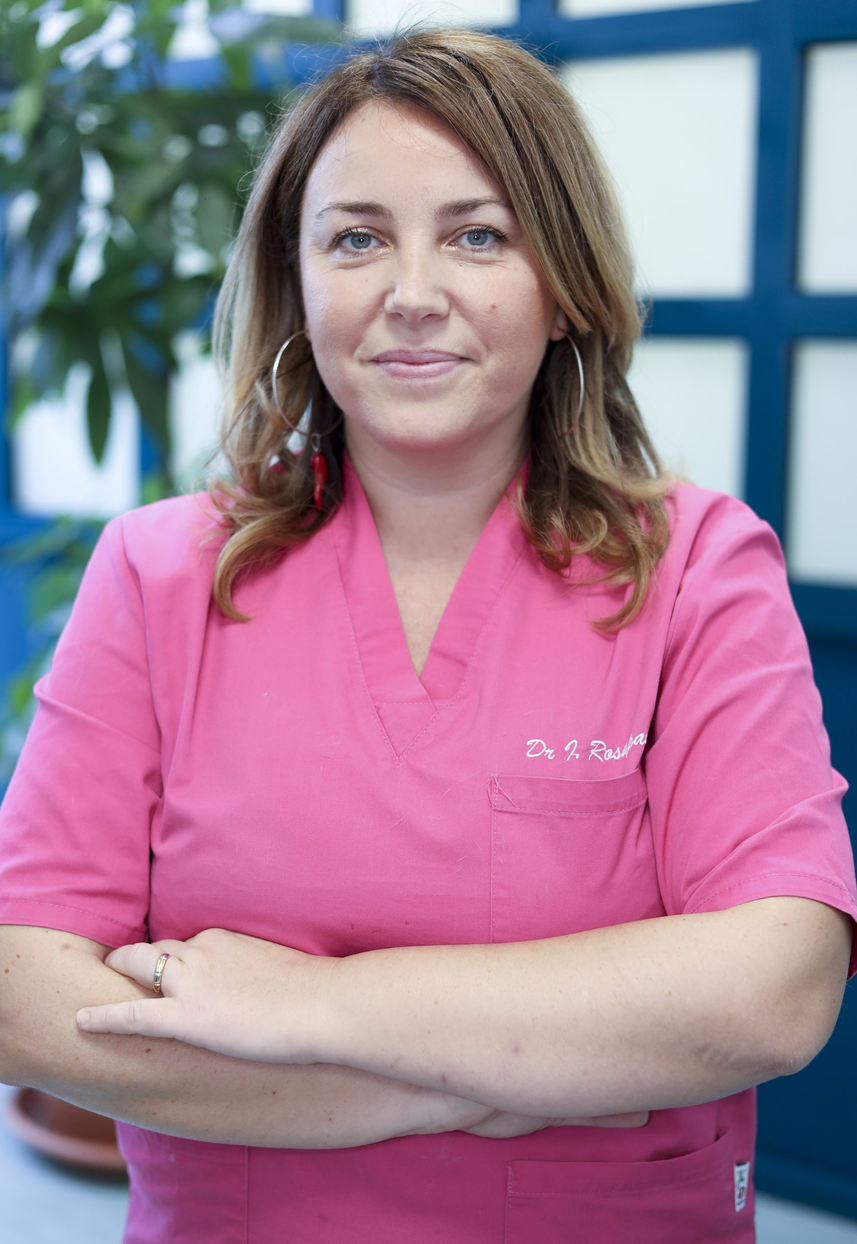
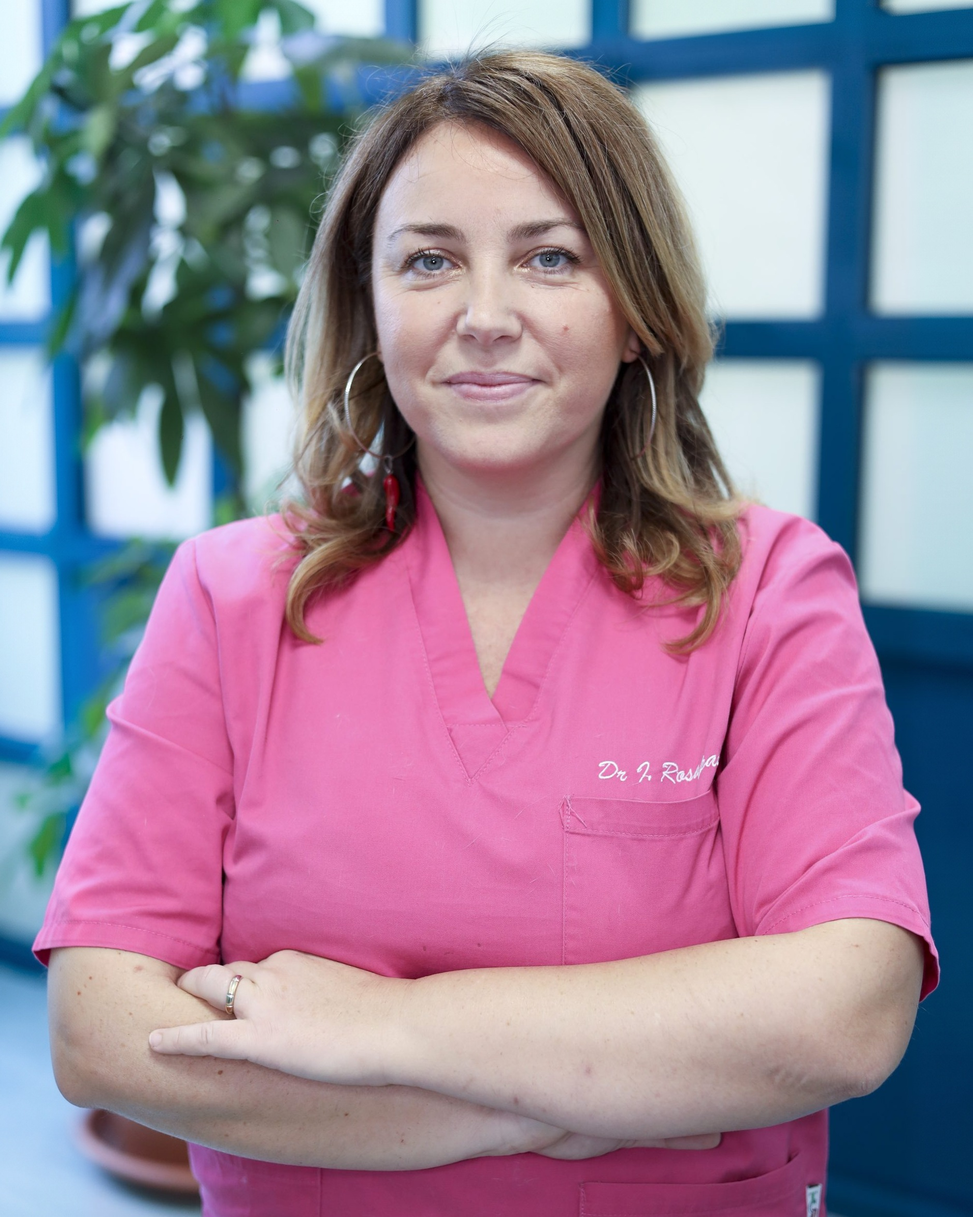
Home con il team, soci in proporzione, pagine struttura/contatti/urgenze riviste
- Testata della home: foto del team intera (in alto su mobile, a destra su desktop).
- Ritratti dei soci alla stessa scala del volto: Rosapane allontanata (bordi estesi,
  foto originale rimessa sopra), Sergio e Sica riquadrate dall'originale.
- Pagine servizio: titoli lunghi con corpo misurato e sillabazione, mai sotto la foto.
- La struttura: tolta la sala d'attesa, sale chirurgiche con l'intervento in corso,
  «Chi siamo» con la foto del team.
- Contatti: tolta la foto del team, l'ingresso resta fisso su desktop.
- Pronto soccorso: tolti il box del turno di notte e i dettagli su chi c'è di notte.

diff --git a/clinica-del-bosco/src/lib/scatti.ts b/clinica-del-bosco/src/lib/scatti.ts
@@ -116,7 +116,7 @@ const fuochi: Record<string, Fuoco> = {
   '51': '50-30',
   '52': '50-30',
   '53': '50-30',
-  // Ritratto da smartphone, inquadratura stretta: si parte dall'alto per non toccare i capelli.
+  // Ritratti dei soci 52-54 già tagliati in 4:5 con il volto alla stessa scala del Dott. Ferrari (51).
   '54': '50-0',
   '55': '50-30',
   '56': '50-30',

diff --git a/clinica-del-bosco/src/content/servizi/pronto-soccorso-h24.md b/clinica-del-bosco/src/content/servizi/pronto-soccorso-h24.md
@@ -1,9 +1,9 @@
 ---
 titolo: 'Pronto soccorso veterinario 24 ore su 24'
 titoloBreve: 'Pronto soccorso H24'
-descrizioneMeta: 'Pronto soccorso veterinario a Portici aperto 24 ore su 24, festivi inclusi, con un medico in clinica anche di notte. Chiama mentre arrivi: 081 7763859.'
-sottotitolo: "Medici e tecnici veterinari in struttura giorno e notte, non reperibilità telefonica. Chiama mentre arrivi: ti prepariamo l'accoglienza."
-risposta: "Il pronto soccorso della Clinica Veterinaria del bosco a Portici è aperto 24 ore su 24, tutti i giorni dell'anno, festivi compresi. Di notte c'è sempre un medico veterinario in clinica. Curiamo in urgenza cani, gatti e animali esotici: traumi, difficoltà a respirare, avvelenamenti, blocco urinario, convulsioni, torsione dello stomaco. Esami, chirurgia e terapia intensiva sono nella stessa sede."
+descrizioneMeta: 'Pronto soccorso veterinario a Portici aperto 24 ore su 24, festivi inclusi. Chiama mentre arrivi: 081 7763859.'
+sottotitolo: "Aperto 24 ore su 24, tutti i giorni dell'anno. Chiama mentre arrivi: ti prepariamo l'accoglienza."
+risposta: "Il pronto soccorso della Clinica Veterinaria del bosco a Portici è aperto 24 ore su 24, tutti i giorni dell'anno, festivi compresi. Curiamo in urgenza cani, gatti e animali esotici: traumi, difficoltà a respirare, avvelenamenti, blocco urinario, convulsioni, torsione dello stomaco. Esami, chirurgia e terapia intensiva sono nella stessa sede."
 icona: 'ambulanza'
 categoria: 'urgenza'
 ordine: 99

diff --git a/clinica-del-bosco/BRIEF-FOTO.md b/clinica-del-bosco/BRIEF-FOTO.md
@@ -30,6 +30,15 @@ perché l'inquadratura è stretta. Il riquadro «Dove siamo» della home non usa
 disegnata (32): mostra l'ingresso reale (44) in verticale 4:5, con insegna, cartello H24 e civico 12;
 anche la pagina Contatti, accanto a «Come arrivare», mostra l'ingresso (44, 4:5, con didascalia)
 al posto della mappa: la mappa disegnata (32) non è più usata.
+Aggiornamento 25/11 sera (richieste di Marta):
+- testata della home con la foto del team (33): intera in alto su mobile, a destra su desktop, testi a sinistra;
+- i volti dei quattro soci hanno la stessa scala. Rosapane (52) è stata allontanata: i bordi
+  laterali e in alto (sfondo, maniche, gomiti) sono stati estesi con Nano Banana Pro su ElevenLabs e la foto
+  originale è stata rimessa sopra, quindi volto e figura sono quelli dello scatto. Sergio (53) è
+  stata riquadrata più stretta dall'originale 037, Sica (54) appena più stretta;
+- «La struttura»: tolta la sala d'attesa, la scheda «Due sale chirurgiche» mostra l'intervento
+  in corso (scatto 03), «Chi siamo» mostra la foto del team (34);
+- Contatti: tolta la foto del team, resta l'ingresso (44).
 Il punto di fuoco di ogni foto è in `src/lib/scatti.ts` (`fuochi`).
 Le liberatorie delle persone riconoscibili sono state confermate da Marta Dessena il 25/11/2026.
 Gli originali stanno in `~/Desktop/scrivania/da verificare e ulire/foto clinica del bosco/`; il
